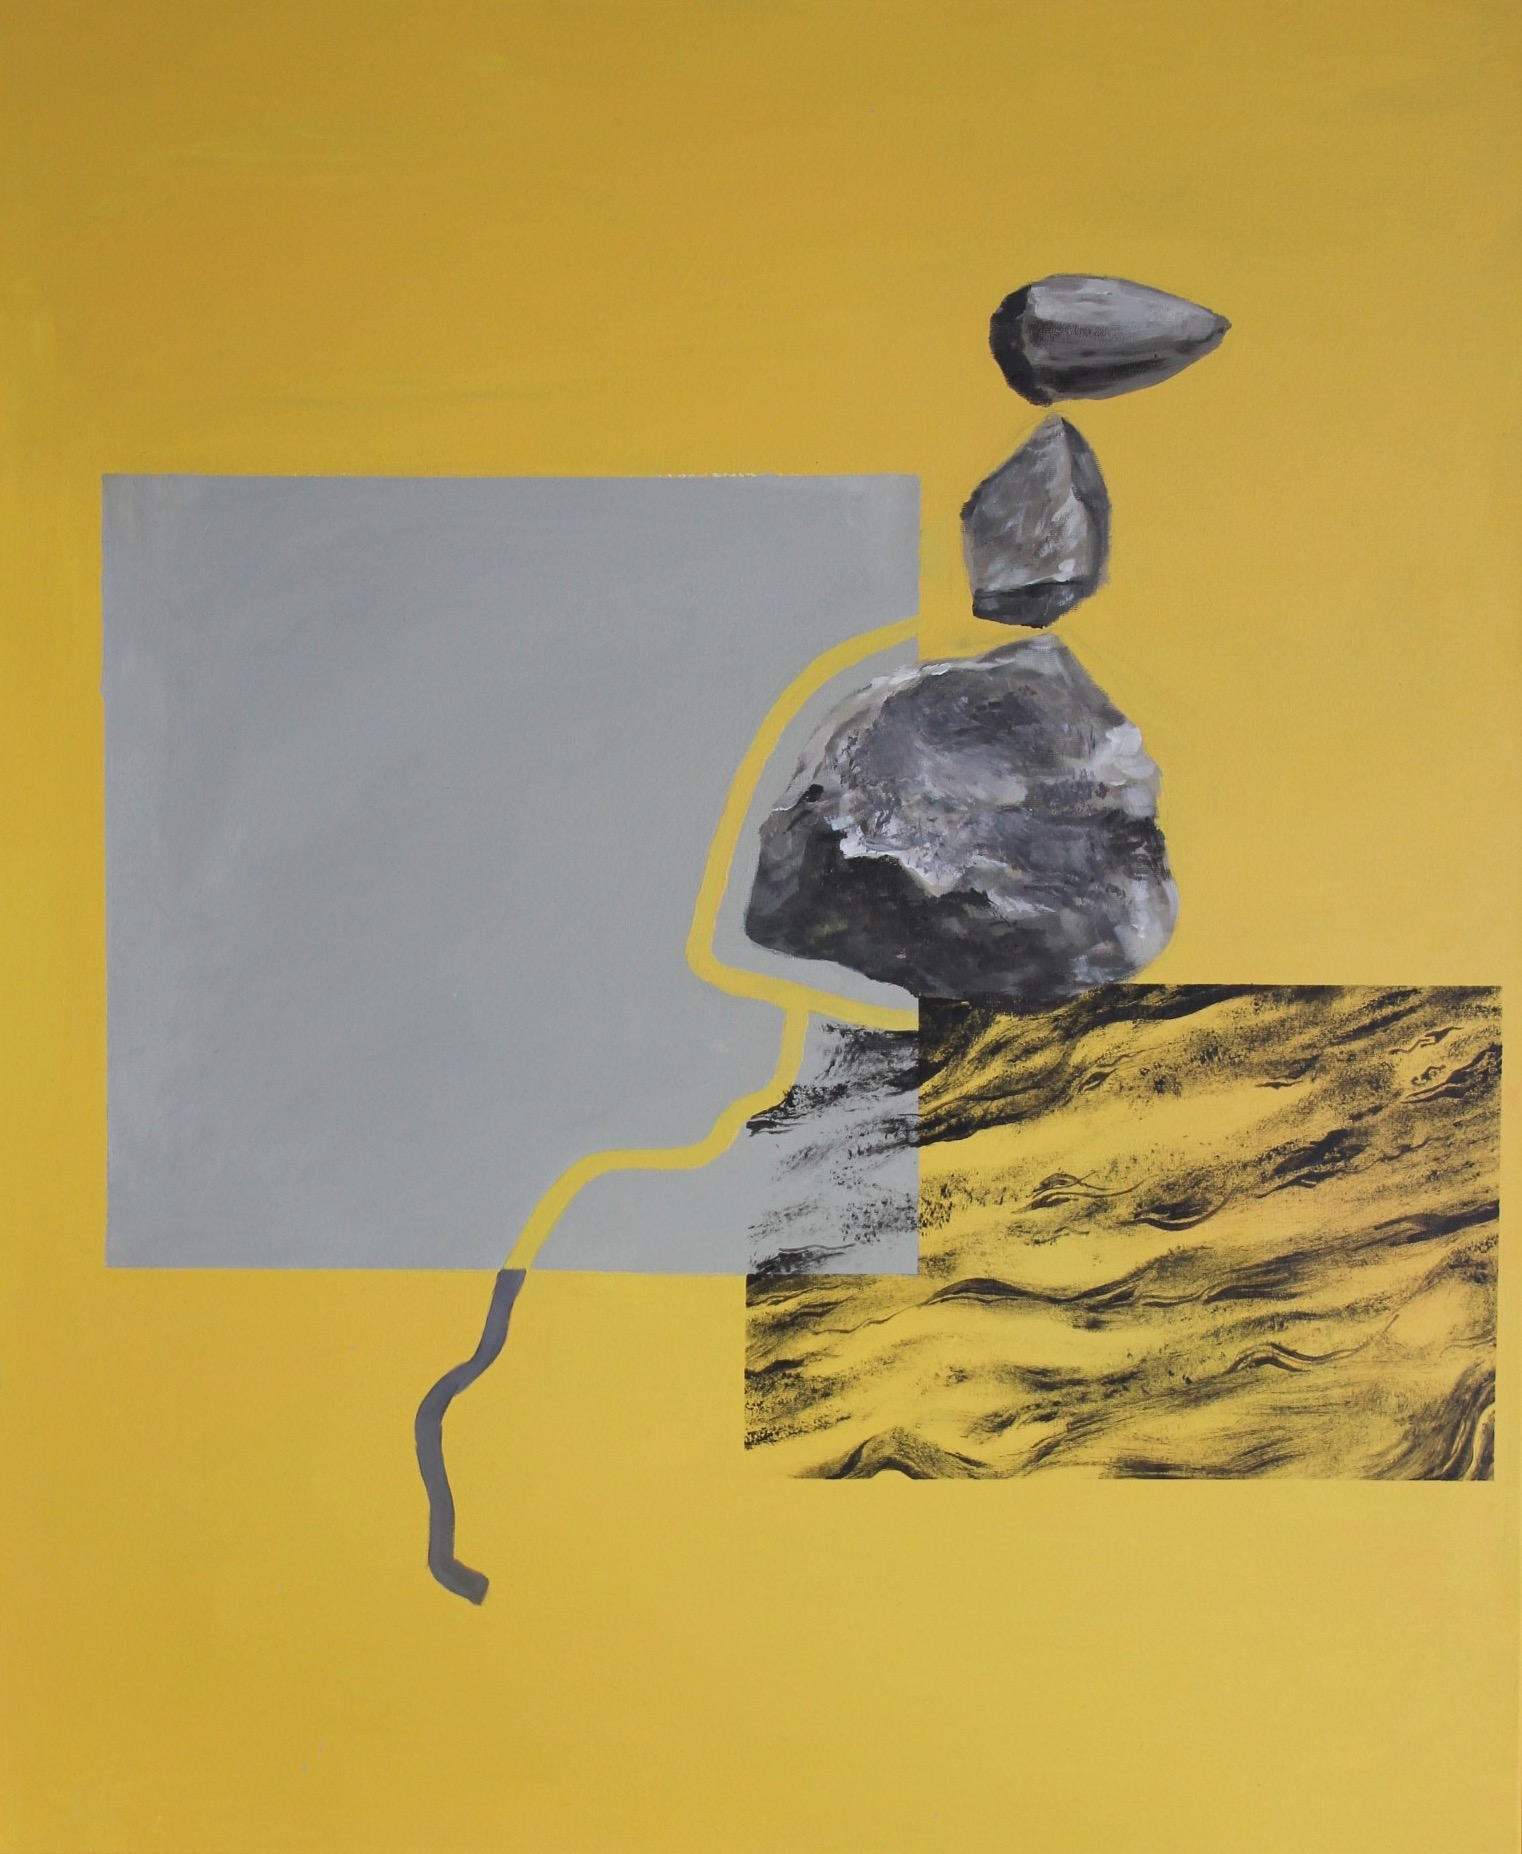
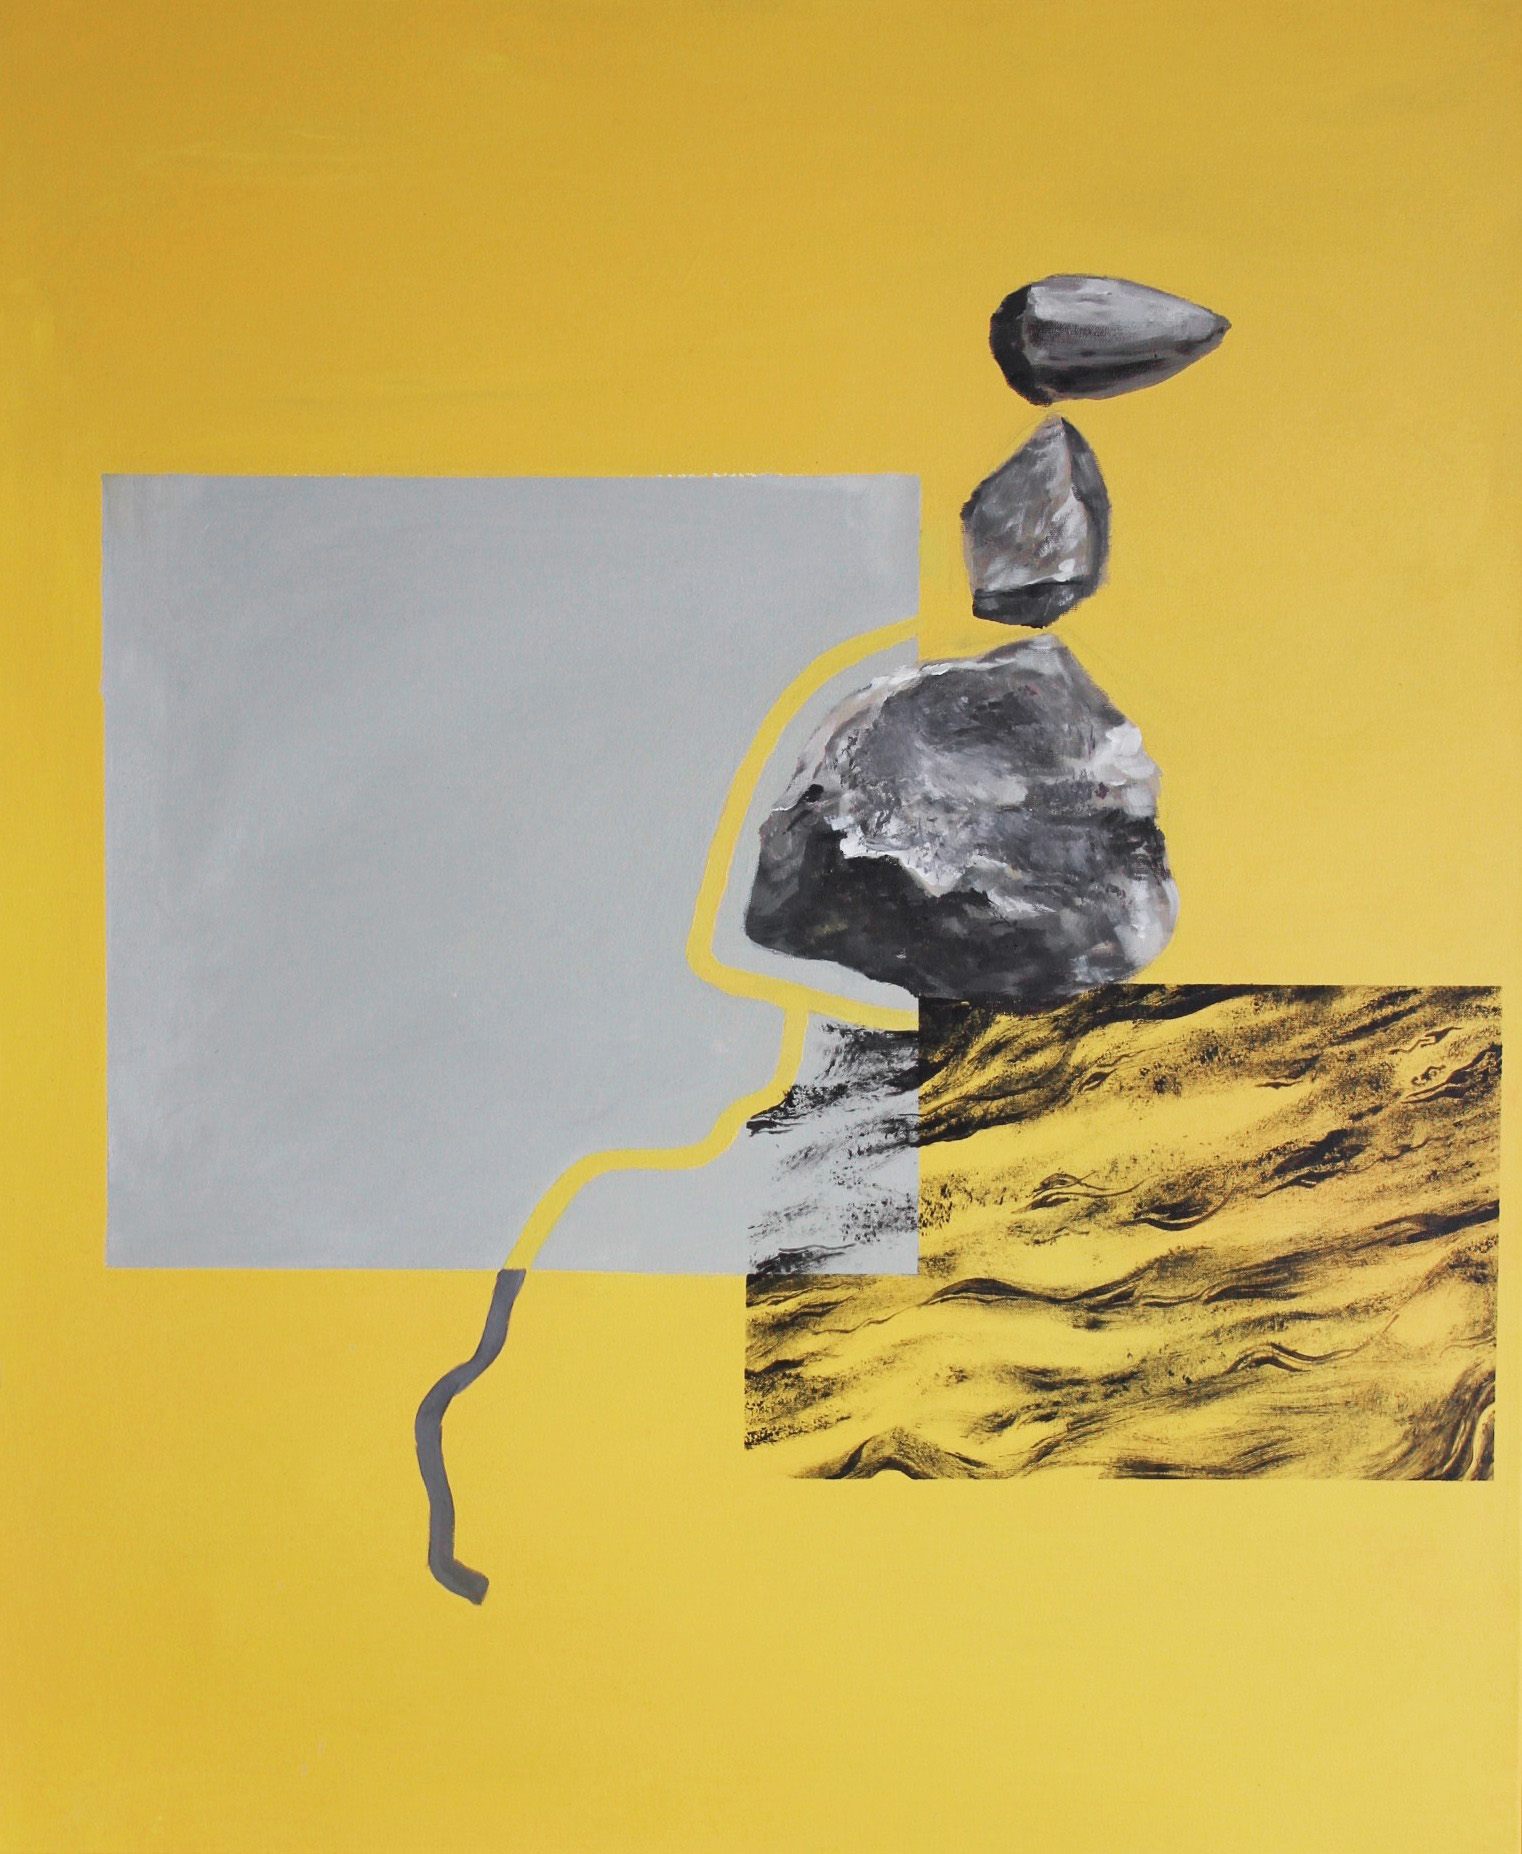
reduce file sizes

diff --git a/paintings.html b/paintings.html
@@ -82,7 +82,7 @@
 			</div>
 
 			<div class="img_wrap" onclick=OpenModal("arts/remonter.jpg")>
-				<img src="arts/remonter.jpg" class="paintings_images" id="remonter" alt="Remonter l'encre painting" /></a><p id="remonter_description" class="img_description"> <i>Remonter l'encre</i>, 2017</p>
+				<img src="arts/remonter_mini.jpg" class="paintings_images" id="remonter" alt="Remonter l'encre painting" /></a><p id="remonter_description" class="img_description"> <i>Remonter l'encre</i>, 2017</p>
 			</div>
 			<div class="img_wrap" onclick=OpenModal("arts/mis1.jpg")>
 				<img src="arts/mis1.jpg" class="paintings_images" id="mis1" alt="misanthrope painting" /></a><p id="mis1_description" class="img_description"> <i>Le Misanthrope (1/6)</i>, 2016</p>
@@ -90,9 +90,6 @@
 			<div class="img_wrap" onclick=OpenModal("arts/mis2.jpg")>
 				<img src="arts/mis2.jpg" class="paintings_images" id="mis2" alt="misanthrope painting" /></a><p id="mis1_description" class="img_description"> <i>Le Misanthrope (2/6)</i>, 2016</p>
 			</div>  
-			<div class="img_wrap" onclick=OpenModal("arts/mis3.jpg")>
-				<img src="arts/mis3.jpg" class="paintings_images" id="mis3" alt="misanthrope painting" /></a><p id="mis3_description" class="img_description"> <i>Le Misanthrope (3/6)</i>, 2016</p>
-			</div> 
 			<div class="img_wrap" onclick=OpenModal("arts/mis4.jpg")>
 				<img src="arts/mis4.jpg" class="paintings_images" id="mis4" alt="misanthrope painting" /></a><p id="mis4_description" class="img_description"> <i>Le Misanthrope (4/6)</i>, 2016</p>
 			</div> 
@@ -104,19 +101,19 @@
 			</div> 
 
 			<div class="img_wrap" onclick=OpenModal("arts/mam1.jpg")>
-				<img src="arts/mam1.jpg" class="paintings_images" id="mam1" alt="small painting" /></a><p id="mam1_description" class="img_description"> Untitled (for Eleonore), 2015</p>
+				<img src="arts/mam1_mini.jpg" class="paintings_images" id="mam1" alt="small painting" /></a><p id="mam1_description" class="img_description"> Untitled (for Eleonore), 2015</p>
 			</div> 
 			<div class="img_wrap" onclick=OpenModal("arts/mam2.jpg")>
-				<img src="arts/mam2.jpg" class="paintings_images" id="mam2" alt="small painting" /></a><p id="mam2_description" class="img_description"> Untitled (for Eleonore), 2015</p>
+				<img src="arts/mam2_mini.jpg" class="paintings_images" id="mam2" alt="small painting" /></a><p id="mam2_description" class="img_description"> Untitled (for Eleonore), 2015</p>
 			</div> 
 			<div class="img_wrap" onclick=OpenModal("arts/mam3.jpg")>
-				<img src="arts/mam3.jpg" class="paintings_images" id="mam3" alt="small painting" /></a><p id="mam3_description" class="img_description"> Untitled (for Eleonore), 2015</p>
+				<img src="arts/mam3_mini.jpg" class="paintings_images" id="mam3" alt="small painting" /></a><p id="mam3_description" class="img_description"> Untitled (for Eleonore), 2015</p>
 			</div> 
 			<div class="img_wrap" onclick=OpenModal("arts/mam4.jpg")>
-				<img src="arts/mam4.jpg" class="paintings_images" id="mam4" alt="small painting" /></a><p id="mam4_description" class="img_description"> Untitled (for Eleonore), 2015</p>
+				<img src="arts/mam4_mini.jpg" class="paintings_images" id="mam4" alt="small painting" /></a><p id="mam4_description" class="img_description"> Untitled (for Eleonore), 2015</p>
 			</div> 
 			<div class="img_wrap" onclick=OpenModal("arts/mam5.jpg")>
-				<img src="arts/mam5.jpg" class="paintings_images" id="mam5" alt="small painting" /></a><p id="mam5_description" class="img_description"><i>Untitled</i> (for Eleonore), 2015</p>
+				<img src="arts/mam5_mini.jpg" class="paintings_images" id="mam5" alt="small painting" /></a><p id="mam5_description" class="img_description"><i>Untitled</i> (for Eleonore), 2015</p>
 			</div> 
 
 			<div class="img_wrap" onclick=OpenModal("arts/fluo.jpg")>
